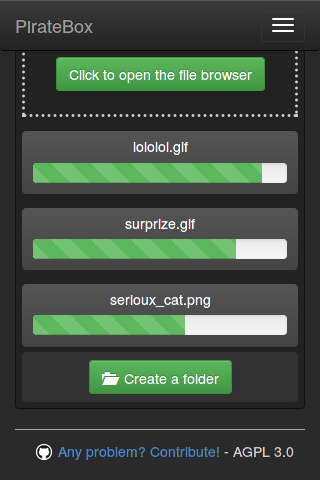
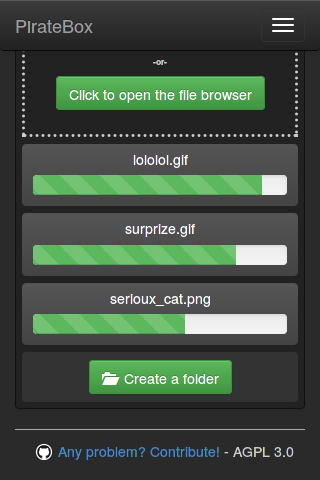
Fix css

Changed region(s): [[0.0625, 0.0938, 0.9375, 0.6562], [0.0938, 0.6875, 0.9062, 0.75]]

diff --git a/public/css/style.css b/public/css/style.css
@@ -161,6 +161,7 @@ div#dragndrop {
   font-size: 1.2em;
   font-weight: bold;
   text-align: center;
+  margin-bottom: 1%;
 }
 
 span#dndtxt {
@@ -187,14 +188,14 @@ div.barwrap {
   background-image: linear-gradient(to bottom, #555 0px, #444 100%);
   border-radius: .3em;
   padding: .3em;
-  margin-top: 1em;
+  margin: .5em 0;
   color: #fff;
 }
 
 div#createfolder {
   background-color: #333;
   padding: 8px 10%;
-  margin-top: 2%;
+  margin-top: 9px;
   border-radius: 4px;
 }
 
